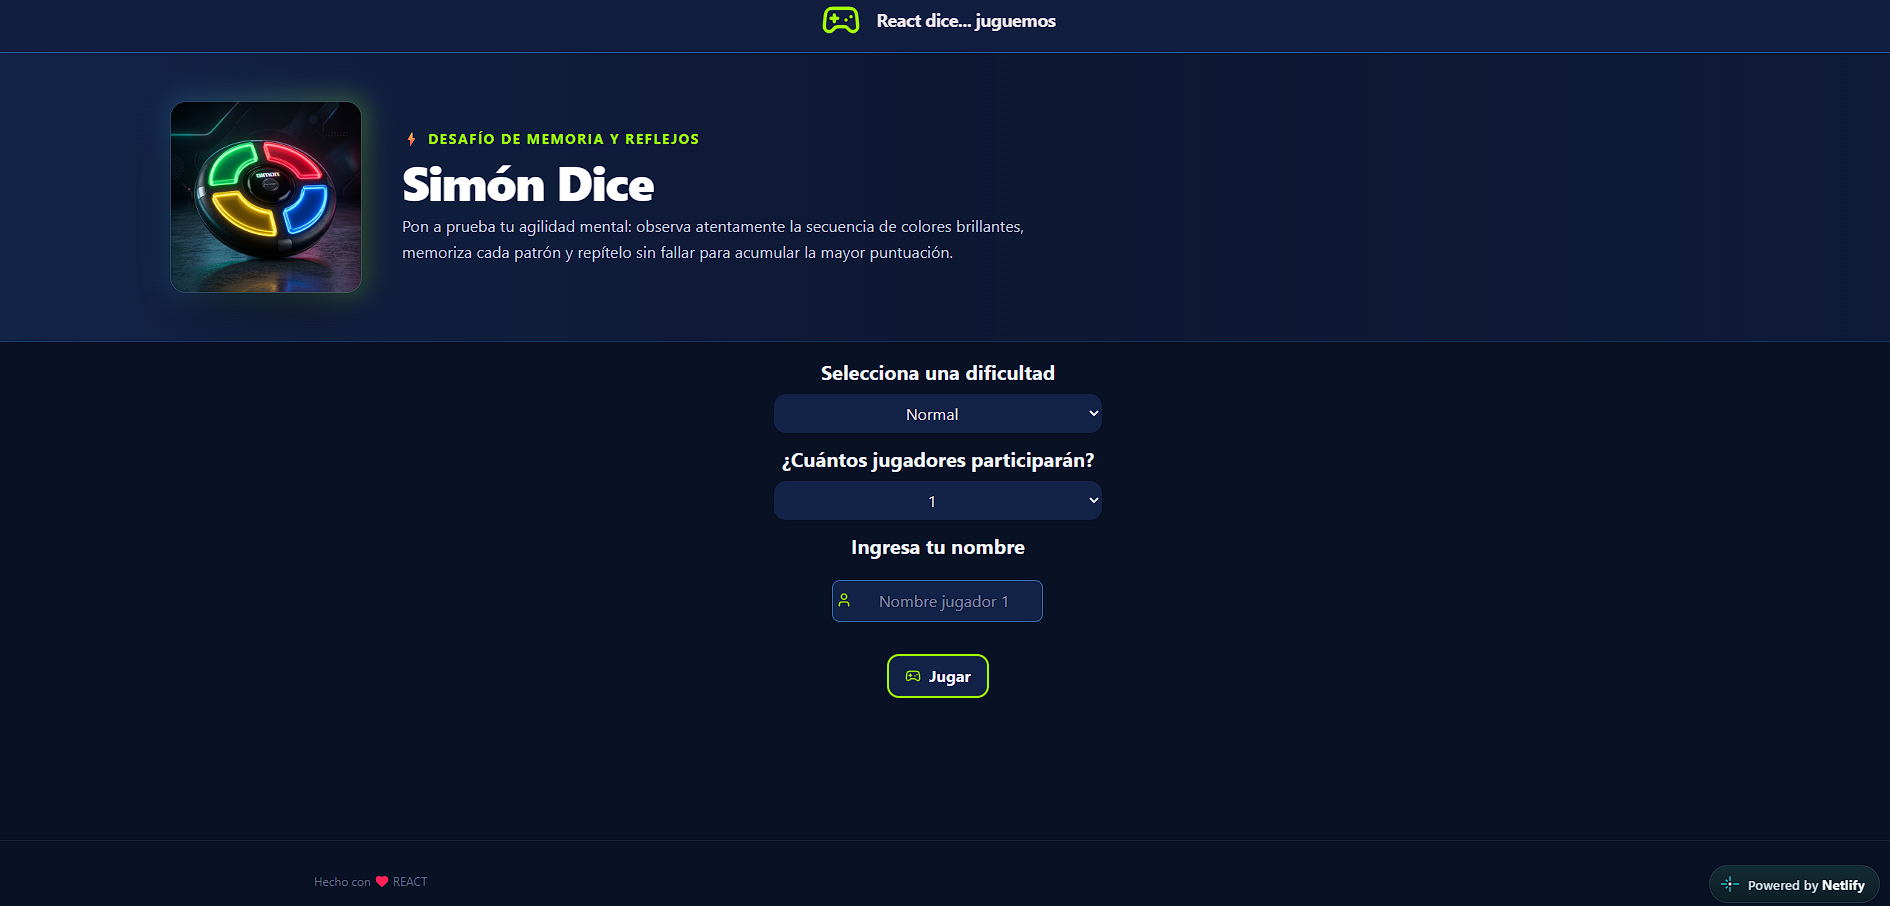
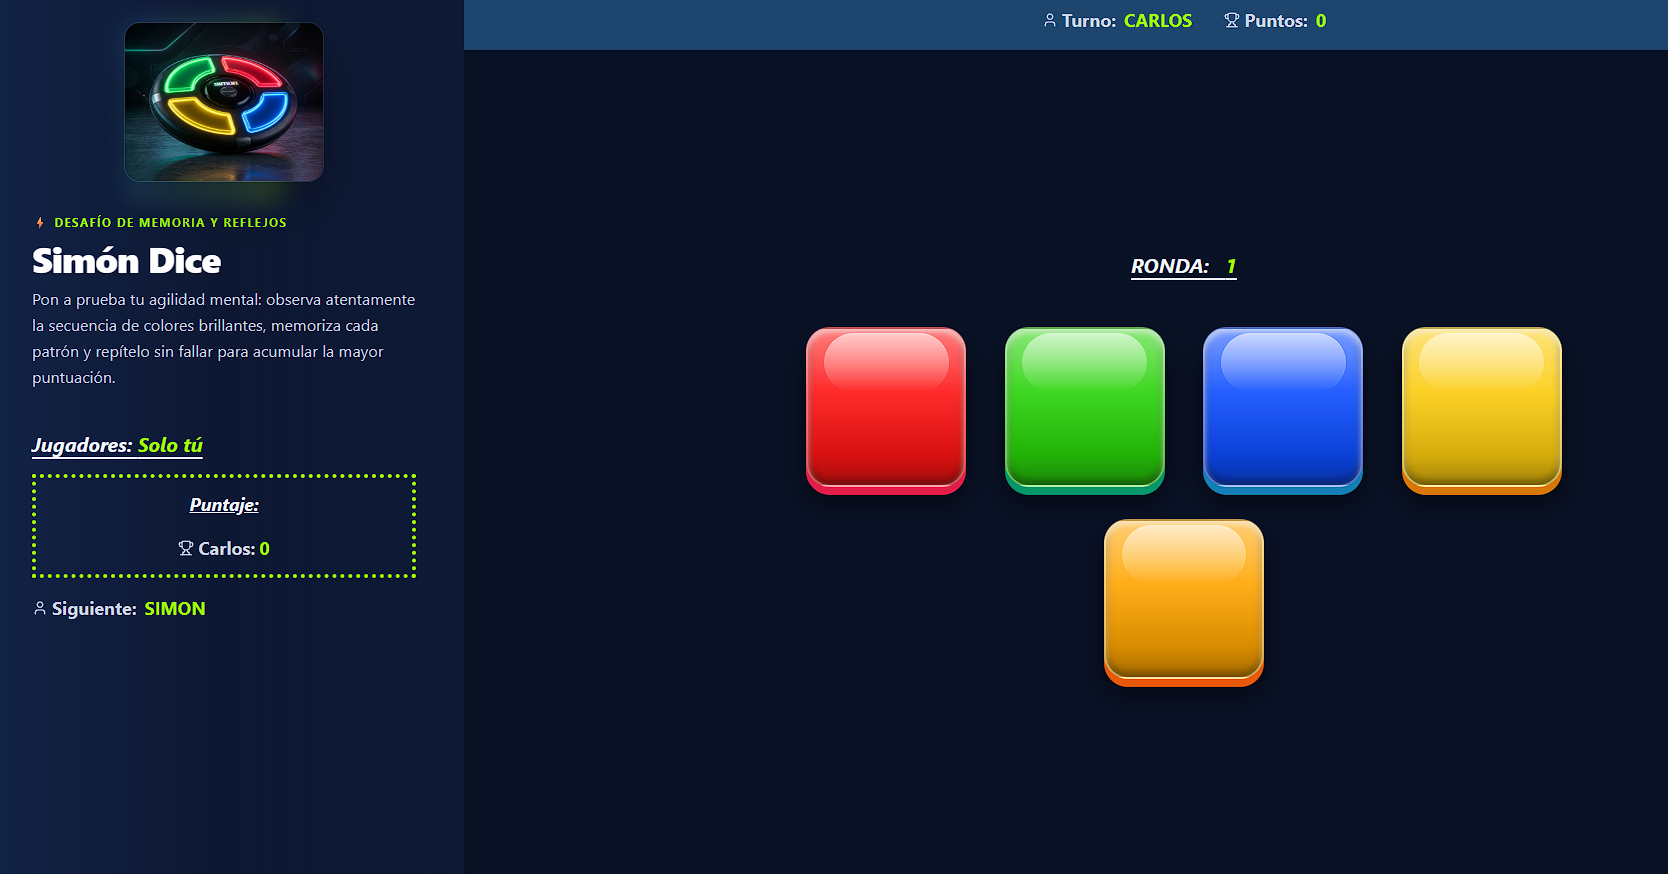
se agregan proyectos y tags a cards

diff --git a/src/data/projects.ts b/src/data/projects.ts
@@ -4,13 +4,14 @@ export const projectsInfo: ProjectsInfoT[] = [
   {
     id: "69f43843-1049-4pwc-9ba7-606ae54a0502",
     year: '2026',
-    name: "Juego Simon Dice",
+    name: "Simon Dice",
     hosting: "netlify",
     url: "https://juego-simon-dice-react.netlify.app/",
     description:
-      "El clásico juego de simón dice pero con 4 niveles de dificultad y hasta 4 jugadores",
+      "El clásico juego de simón dice pero con 4 niveles de dificultad y hasta 4 jugadores. Puedes ver número de jugadores, puntajes, turno en curso y turno siguiente, número de ronda",
     tags: ["Typescript", "React", "Context", "Tailwind", "Github", "lucide icons"],
     techs: ["react", "context", "typescript", "tailwind", "react icons", 'SweetAlert2', 'canvas-conffetti'],
+    category: ['juego'],
     img: "/img/sites/simon-dice.png",
     github: {
       front: "https://github.com/CarlosTrini/2026-SIMON-DICE-REACT",
@@ -21,11 +22,12 @@ export const projectsInfo: ProjectsInfoT[] = [
   {
     id: "623g334d-3ece-40e1-68c9-9e5129674732",
     year: '2026',
-    name: "Arquitectos MX (Sitio web con posts de blog y proyectos)",
+    name: "Arquitectos MX",
     hosting: "netlify",
     url: "https://despacho-arquitectos-mx.netlify.app/",
     description:
       "Portal de arquitectura con diferentes secciones: proyectos, servicios, proceso, equipo, blog y contacto. Los posts de blog y proyectos son creados con Markdown para posteriormente ser consumidos y mostradas.  Puedes dar click y leer las notas, puedes también ir a la página donde encontrar solo las notas creadas con el tema que elijas",
+    category: ['sitio web', 'blog'],
     tags: [
       "Typescript",
       "Astro",
@@ -60,6 +62,7 @@ export const projectsInfo: ProjectsInfoT[] = [
     url: "https://online-academy-trinidad.netlify.app/",
     description:
       "Sitio de cursos online en el que se puede registrar al usuario e iniciar sesión, simular compras de cursos, visitar cursos por categorias, visitar perfiles de profesores y perfiles de cada curso, agregar comentarios con calificación al curso, el usuario tiene un perfil donde puede agregar tarjetas (FAKE) de pago, cambiar foto de perfil, ver sus cursos adquiridos y agregar a favoritos... cuenta con persitencia. Todo es desde localStorage",
+    category: ['sitio web', 'blog', 'e-commerce-dummy'],
     tags: [
       "Typescript",
       "React Ts",
@@ -79,16 +82,17 @@ export const projectsInfo: ProjectsInfoT[] = [
         "https://github.com/CarlosTrini/Online-Academy",
       back: "",
     },
-    size: '1879 × 919'
+    size: '1920 × 1080'
   },
   {
     id: "623g334d-3ece-40e1-80c9-9e5142938732",
     year: '2026',
-    name: "Pets Vet (landingPage)",
+    name: "Pets Vet ",
     hosting: "netlify",
     url: "https://petsvet.netlify.app/",
     description:
       "Landing page para veterinaria Pets Vet. Responsive con formulario de contacto y sección de FAQ",
+    category: ['landingPage'],
     tags: [
       "Typescript",
       "React Ts",
@@ -108,16 +112,17 @@ export const projectsInfo: ProjectsInfoT[] = [
         "https://github.com/CarlosTrini/2026-PETS-VET",
       back: "",
     },
-    size: '1879 × 919'
+    size: '1920 × 1080'
   },
   {
     id: "623g334d-3ece-40e1-68c9-9e5142938732",
     year: '2026',
-    name: "Vertice Global (blog noticiero)",
+    name: "Vertice Global",
     hosting: "netlify",
     url: "https://vertice-global-portal.netlify.app/",
     description:
       "portal de noticias con diferentes tópicos/categorías. Las notas son creadas con Markdown para posteriormente ser consumidas y mostradas. El sitio cuenta con diferentes secciones de tópicos. Puedes dar click y leer las notas, puedes también ir a la página donde encontrar solo las notas creadas con el topico que elijas. Página de nosotros y avisos de privacidad",
+    category: ['sitio web', 'blog'],
     tags: [
       "Typescript",
       "Astro",
@@ -140,16 +145,17 @@ export const projectsInfo: ProjectsInfoT[] = [
         "https://github.com/CarlosTrini/2026-VERTICE-GLOBAL",
       back: "",
     },
-    size: '1879 × 919'
+    size: '1920 × 1080'
   },
   {
     id: "69f43845-1372-441c-9ba7-606ae54a4852",
     year: '2026',
-    name: "Café Komorebi (LandingPage)",
+    name: "Café Komorebi",
     hosting: "netlify",
     url: "https://komorebi-cafeshop.netlify.app/",
     description:
       "Landing page para café Komorebi. Diseño minimalista y elegante",
+    category: ['landingPage'],
     tags: ["Typescript", "Astro", "Markdown", "Tailwind", "Lucide icons", "swiper", "Github"],
     techs: ["html", "css", "js"],
     img: "/img/sites/komorebi.png",
@@ -167,6 +173,7 @@ export const projectsInfo: ProjectsInfoT[] = [
     url: "https://rickymortygame.netlify.app/",
     description:
       "Juego de memorama de la caricatura de Rick & Morty con tres niveles de dificultad. Las imágenes son dinámicas en cada juego ya que son traidas desde la misma API de rickymorty",
+    category: ['juego'],
     tags: ["HTML", "Javascript", "SCSS", "SweetAlert", "Github"],
     techs: ["html", "css", "js"],
     img: "/img/sites/rym.png",
@@ -174,7 +181,7 @@ export const projectsInfo: ProjectsInfoT[] = [
       front: "https://github.com/CarlosTrini/RickyMorty",
       back: "",
     },
-    size: '1879 × 919'
+    size: '1920 × 1080'
   },
 
   // {
@@ -214,6 +221,7 @@ export const projectsInfo: ProjectsInfoT[] = [
     url: "https://developersbar.netlify.app/",
     description:
       "Sitio para desarrolladores construido con HTML, JavaScript y SCSS. Incluye secciones de presentación, tecnologías, servicios y contacto, con diseño responsivo y animaciones de scroll.",
+    category: ['landingPage'],
     tags: ["HTML", "Javascript", "SCSS", "Github"],
     techs: ["html", "css", "js"],
     img: "/img/sites/developersbar.png",
@@ -221,7 +229,7 @@ export const projectsInfo: ProjectsInfoT[] = [
       front: "https://github.com/CarlosTrini/DevelopersBar",
       back: "",
     },
-    size: '1879 × 919'
+    size: '1920 × 1080'
   },
   {
     id: "003fb9d6-25c8-404c-aabe-b64c9b4c2c63",
@@ -231,6 +239,7 @@ export const projectsInfo: ProjectsInfoT[] = [
     url: "https://barber-shop-mern.netlify.app/",
     description:
       "BarberShop esta construida en dos partes. FrontEnd: React, Backend: Nodejs, express, JsonWebToken, Mongodb Atlas, Mongoose. Es una barbería en la cual se pueden registrar, iniciar sesión y agendar citas siempre y cuando se este registrado. Los servicios son agregados a un carrito con localstorage. cuenta con una sección para el administrador en el cual se puede buscar citas agendadas, dar por atendidas, agregar, eliminar, ver y editar servicios. Para acceder como administrador usar: user => carlos@carlos.com, pass => contrasena",
+    category: ['sitio web', 'e-commerce-dummy', 'API'],
     tags: [
       "react",
       "react-/sites/redux.png",
@@ -251,7 +260,7 @@ export const projectsInfo: ProjectsInfoT[] = [
       front: "https://github.com/CarlosTrini/barbershop-front",
       back: "https://github.com/CarlosTrini/barbershop-back",
     },
-    size: '1879 × 919'
+    size: '1920 × 1080'
   },
   // {
   //   id: "614d334d-3ece-40e1-80c9-9e5142278132",
@@ -297,6 +306,7 @@ export const projectsInfo: ProjectsInfoT[] = [
     url: "https://star-wars-api-react.netlify.app/",
     description:
       "Página construida con  ReactJs, la cual consume una api de star wars. Aplicando scroll infinito, modo oscuro. Haciendo uso de Redux, permite agregar y eliminar un personaje de favoritos con data persistente , y ejecutar peticiones para llenar el state de los personajes",
+    category: ['landingPage'],
     tags: ["React", "SCSS", "JavaScript", "Github", "React-intersection-observer", "Redux", "Redux-thunk"],
     techs: ["react", "scss", "js", "github", "redux"],
     img: "/img/sites/starwars.png",
@@ -304,7 +314,7 @@ export const projectsInfo: ProjectsInfoT[] = [
       front: "https://github.com/CarlosTrini/star-wars-api",
       back: "",
     },
-    size: '1879 × 919'
+    size: '1920 × 1080'
   },
   {
     id: "821fb4j7-903cs-2943c-ñlks-g239a3i7s1t09",
@@ -314,6 +324,7 @@ export const projectsInfo: ProjectsInfoT[] = [
     url: "https://portafolio-nine-zeta.vercel.app/",
     description:
       "Mi portafolio web. Realizado con Nextjs, SCSS module",
+    category: ['landingPage'],
     tags: [
       "react",
       "NextJs",
@@ -326,25 +337,8 @@ export const projectsInfo: ProjectsInfoT[] = [
       front: "https://github.com/CarlosTrini/PORTAFOLIO",
       back: "",
     },
-    size: '1879 × 919'
+    size: '1920 × 1080'
   },
-  // {
-  //   id: "69f41795-1049-441c-9ba7-606ae54a0502",
-  //   year: '',
-  //   name: "Juego Rick&Morty",
-  //   hosting: "netlify",
-  //   url: "https://rickandmorty-api-memorama.netlify.app/",
-  //   description:
-  //     "Juego de memorama de la caricatura de Rick & Morty con tres niveles de dificultad. Las imágenes son dinámicas en cada juego ya que son traidas desde la misma API de rickymorty",
-  //   tags: ["HTML", "Javascript", "SCSS", "SweetAlert", "Github"],
-  //   techs: ["html", "scss", "js"],
-  //   img: "/img/sites/rym.png",
-  //   github: {
-  //     front: "https://github.com/CarlosTrini/memorama-r-m",
-  //     back: "",
-  //   },
-  // },
-
   {
     id: "54792ac4-3294-413e-bc46-28ef03025478",
     year: '2021',
@@ -353,6 +347,7 @@ export const projectsInfo: ProjectsInfoT[] = [
     url: "https://event-organizer-gulp.netlify.app/",
     description:
       "Página para organizador de eventos, que extrae los datos desde archivos JavaScript simulando dicha data como si fuera traida desde alguna API. Realizada con Gulp, SCSS y libreria ScrollReveal",
+    category: ['landingPage'],
     tags: ["HTML", "SCSS", "JavaScript", "Github", "Gulp"],
     techs: ["html", "scss", "js", "gulp"],
     img: "/img/sites/eventorganizer.png",
@@ -360,26 +355,8 @@ export const projectsInfo: ProjectsInfoT[] = [
       front: "https://github.com/CarlosTrini/event-organizer",
       back: "",
     },
-    size: '1879 × 919'
+    size: '1920 × 1080'
   },
-
-  // {
-  //   id: "09489b2a-c944-40dd-91bb-3d942e05cc13",
-  //   year: '2020',
-  //   name: "Hallowen store",
-  //   hosting: "netlify",
-  //   url: "https://hallowen-store.netlify.app/",
-  //   description:
-  //     "Página estática de venta de productos para Hallowen, los productos se pintan simulando que dicha data es consumida desde alguna API. Realizada con Gulp, SCSS y libreria ScrollReveal",
-  //   tags: ["HTML", "SCSS", "JavaScript", "Github", "Gulp"],
-  //   techs: ["html", "scss", "js", "gulp"],
-  //   img: "/img/sites/hallowenstore.png",
-  //   github: {
-  //     front: "https://github.com/CarlosTrini/hallowen-store",
-  //     back: "",
-  //   },
-  // },  
-
 
 ];
 

diff --git a/src/components/Card/CardProject.tsx b/src/components/Card/CardProject.tsx
@@ -11,7 +11,8 @@ import {
   Monitor,
   Calendar,
   Layers,
-  Sparkles
+  Sparkles,
+  CheckCircle2
 } from "lucide-react";
 import { GithubIcon } from "../Icons/SocialIcons";
 
@@ -53,6 +54,7 @@ const CardProject: React.FC<PropsT> = ({ projectInfo }) => {
         {/* Card Body */}
         <div className="p-5 flex-1 flex flex-col justify-between space-y-4">
           <div>
+
             <h4 className="text-lg font-bold text-dark-text-main group-hover:text-primary transition-colors flex items-center gap-2">
               <FolderGit2 className="w-4 h-4 text-accent shrink-0" />
               <span>{projectInfo.name}</span>
@@ -63,8 +65,16 @@ const CardProject: React.FC<PropsT> = ({ projectInfo }) => {
             </p>
           </div>
 
+          <div className="flex gap-2 mb-3">
+            {
+              projectInfo.category.map((c) => (
+                <span key={c} className="p-1 font-bold rounded-sm bg-primary/60 border-2 border-transparent text-xs text-light font-mono capitalize group-hover:border-accent ">{c}</span>
+              ))
+            }
+          </div>
+
           {/* Tech Stack Icons */}
-          <div className="pt-2 border-t border-dark-border">
+          {/* <div className="pt-2 border-t border-dark-border">
             <div className="flex items-center gap-2 flex-wrap">
               {projectInfo.techs.map((t) => (
                 <Popover key={t} content={<span className="text-xs capitalize">{t}</span>} title="">
@@ -78,7 +88,7 @@ const CardProject: React.FC<PropsT> = ({ projectInfo }) => {
                 </Popover>
               ))}
             </div>
-          </div>
+          </div> */}
 
           {/* Action Buttons */}
           <div className="pt-2 flex items-center gap-2">
@@ -92,7 +102,7 @@ const CardProject: React.FC<PropsT> = ({ projectInfo }) => {
 
             <Popover
               content={
-                <span className="text-xs">Resolución recomendada: {projectInfo.size}</span>
+                <span className="text-xs text-highlight">Resolución recomendada: {projectInfo.size}</span>
               }
               title=""
             >
@@ -155,6 +165,7 @@ const CardProject: React.FC<PropsT> = ({ projectInfo }) => {
           {/* Modal Content */}
           <div className="p-6 space-y-6">
             {/* Meta info boxes */}
+
             <div className="grid grid-cols-1 sm:grid-cols-2 gap-4">
               <div className="p-3.5 rounded-xl bg-dark-card border border-dark-border flex items-center gap-3">
                 <Server className="w-5 h-5 text-primary shrink-0" />
@@ -182,6 +193,22 @@ const CardProject: React.FC<PropsT> = ({ projectInfo }) => {
               <p className="text-sm md:text-base text-dark-text-muted leading-relaxed p-4 rounded-xl bg-dark-card/50 border border-dark-border">
                 {projectInfo.description}
               </p>
+            </div>
+
+            {/* Categories */}
+            <div>
+
+              <h5 className="text-xs font-semibold text-accent uppercase tracking-wider mb-2.5 flex items-center gap-1.5">
+                <CheckCircle2 className="w-3.5 h-3.5" />
+                Categoría/s
+              </h5>
+              <div className="flex gap-2 mb-3">
+                {
+                  projectInfo.category.map((c) => (
+                    <span key={c} className="p-1 font-bold rounded-sm bg-primary/60 border-2 border-transparent text-xs text-light font-mono capitalize group-hover:border-accent ">{c}</span>
+                  ))
+                }
+              </div>
             </div>
 
             {/* Tags / Stack */}

diff --git a/src/interfacesTypes/types.ts b/src/interfacesTypes/types.ts
@@ -13,6 +13,8 @@ type GitInfoT = {
     back?: string;
 }
 
+type Categories = 'juego' | 'landingPage' | 'e-commerce' | 'blog' | 'sitio web' | 'CMS' | 'SPA' | 'API' | 'e-commerce-dummy';
+
 export type ProjectsInfoT = {
     id: string;
     name: string;
@@ -21,6 +23,7 @@ export type ProjectsInfoT = {
     description: string;
     tags: string[],
     techs: string[];
+    category: Categories[]
     img: string; //(link)
     github: GitInfoT,
     year: string;
